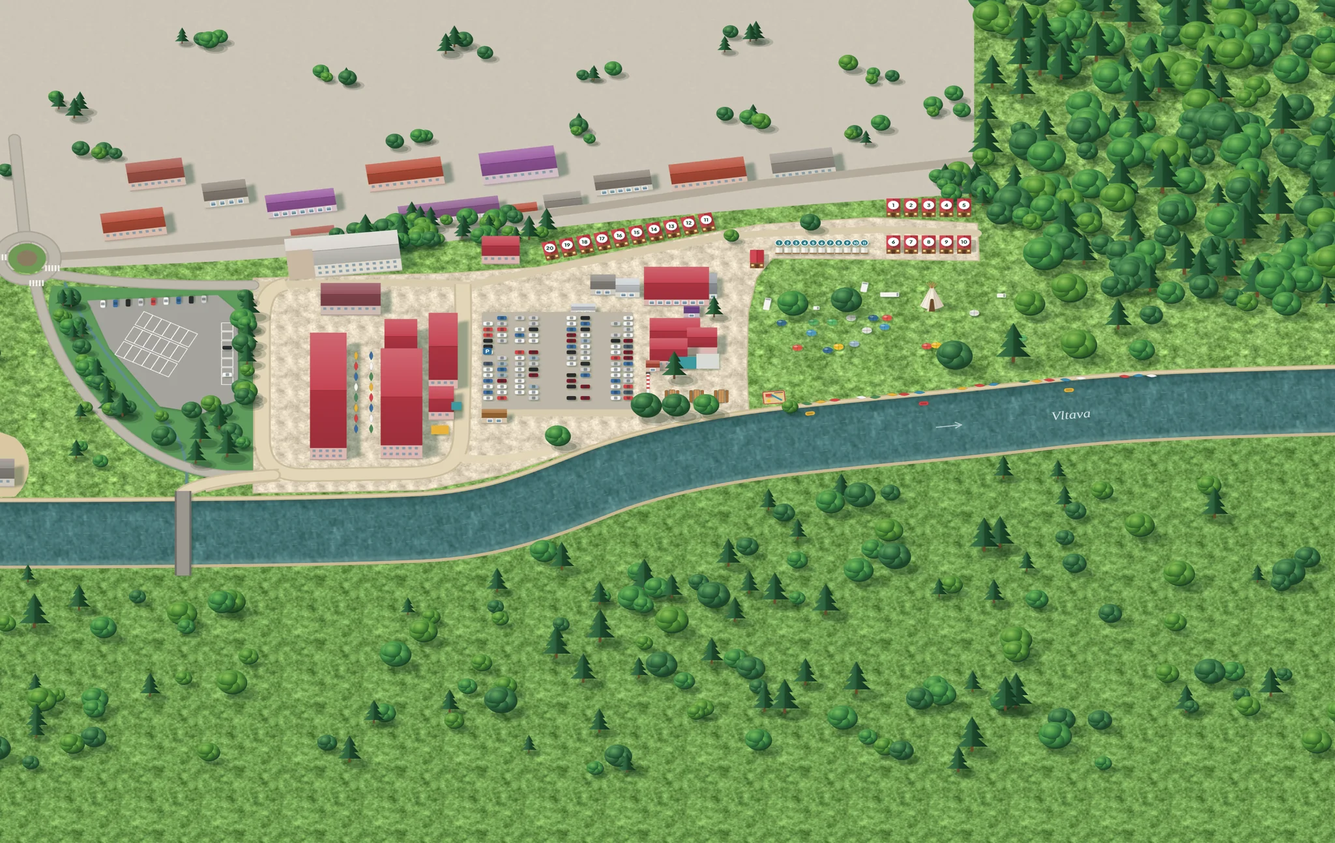
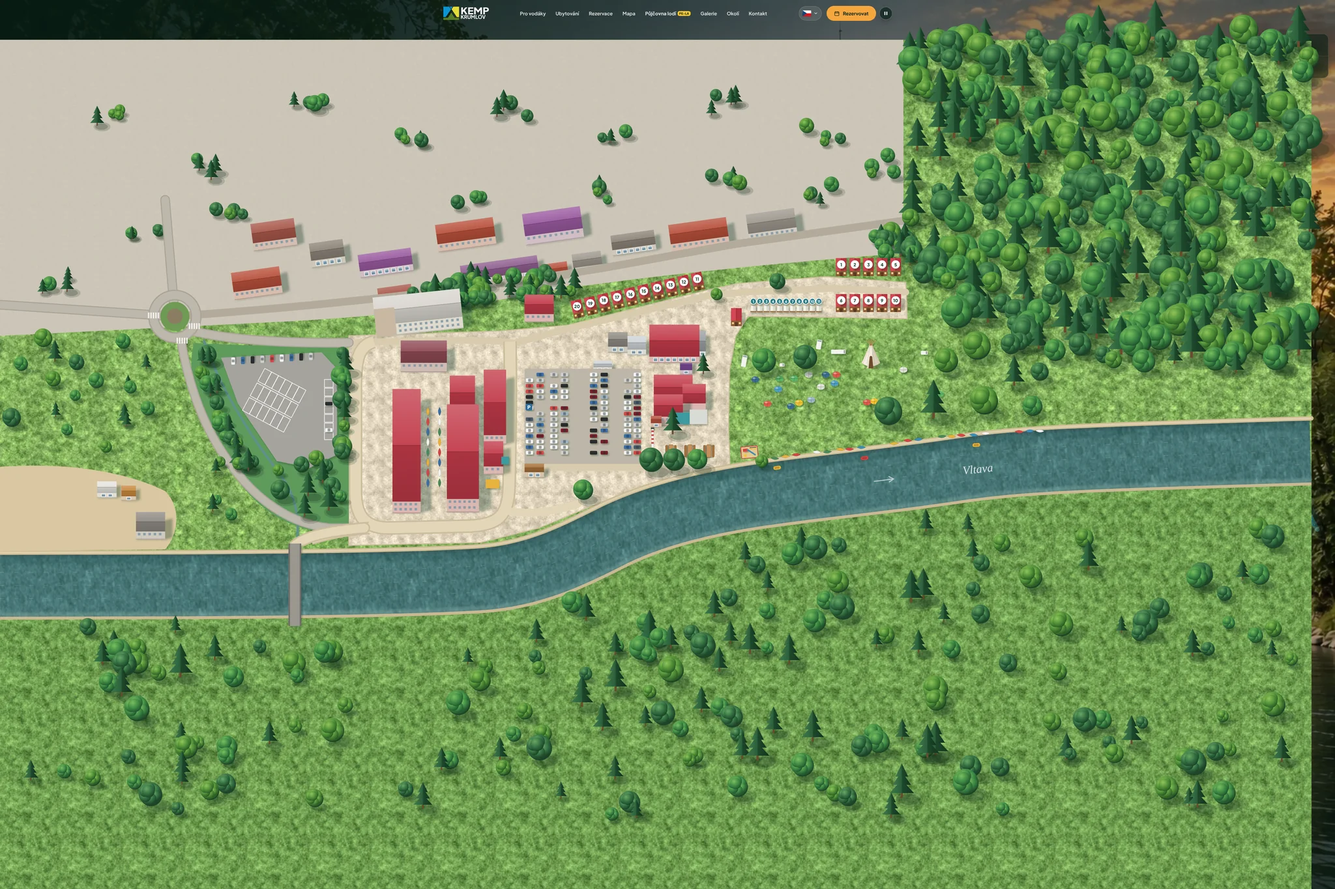
Mapa kempu: zkušební podklad přes WebGL (three.js), který kopíruje SVG mapu 1:1 – vypnuto, zapíná ?mapa3d=1
- pohled, hranice posunu, přiblížení, náklon, špendlíky a lodě řídí dál SVG (stejný viewBox i CSS transformace)
- WebGL kreslí jen statický podklad z jedné textury, SVG s těžkým obsahem se schová
- ztlumení ostatních míst při výběru jako u SVG
- textury znovu vygenerované bez náklonu (nastroje/mapa3d-export.py)

Claude-Session: https://claude.ai/code/session_01SriYs8xJVRZFuGyg5TyTst

diff --git a/js/mapy.js b/js/mapy.js
@@ -200,6 +200,9 @@ const RC=(()=>{const hx=c=>{c=String(c).trim();if(c[0]==='#'){if(c.length===4)c=
   else if(h>=40&&h<65&&s>.5){s=.42;l=Math.min(l,.55)}
   else if(h>=75&&h<170){s*=.82;l*=.9}else s*=.85;
   return C[c]=rgb(h,s,l)}})();
+/* podklad přes WebGL (js/mapa3d.js): zapne ?mapa3d=1 nebo localStorage kk.mapa.3d=1; bez WebGL zůstane čisté SVG */
+const M3=(()=>{try{const q=new URLSearchParams(location.search).get('mapa3d');if(q==='1')localStorage.setItem('kk.mapa.3d','1');if(q==='0')localStorage.removeItem('kk.mapa.3d');
+  if(localStorage.getItem('kk.mapa.3d')!=='1')return false;const c=document.createElement('canvas'),g=c.getContext('webgl2')||c.getContext('webgl');if(!g)return false;const x=g.getExtension('WEBGL_lose_context');if(x)x.loseContext();return true}catch(e){return false}})();
 const E=(t,a={},p=svg,html)=>{const e=document.createElementNS(NS,t);for(const k in a)e.setAttribute(k,REAL&&(k==='fill'||k==='stop-color')?RC(a[k]):a[k]);if(html){e.innerHTML=html;if(REAL)e.querySelectorAll('[fill],[stop-color]').forEach(x=>['fill','stop-color'].forEach(k=>{const v=x.getAttribute(k);if(v)x.setAttribute(k,RC(v))}))}p.append(e);return e};
 const G=(p,a={})=>E('g',a,p);
 let seed=5;const R=()=>{seed=(seed*16807)%2147483647;return(seed-1)/2147483646};
@@ -576,7 +579,7 @@ function upright(){
     const det=ax*by-bx*ay;if(!(Math.abs(det)>1e-6))return;
     const k=Math.hypot(ax,ay);
     o.up.setAttribute('transform',`matrix(${(k*by/det).toFixed(4)} ${(-k*ay/det).toFixed(4)} ${(-k*bx/det).toFixed(4)} ${(k*ax/det).toFixed(4)} 0 0)`)})}
-function apply(b){vb=b;svg.setAttribute('viewBox',`${b.x} ${b.y} ${b.w} ${b.h}`);
+function apply(b){vb=b;svg.setAttribute('viewBox',`${b.x} ${b.y} ${b.w} ${b.h}`);if(window.__am3d)window.__am3d.view(b);
   const {W}=size(),s=W/b.w,base=W/cover().w,k=Math.max(1.15,Math.min(2.8,Math.pow(base/s,.75)*2.5));
   D.forEach(o=>o.mk.setAttribute('transform',`translate(${o.mx} ${o.my}) scale(${k})`));upright();
   svg.classList.toggle('zoomed',s>base*1.6);
@@ -616,7 +619,7 @@ function render(o){if(!o){card.hidden=true;return}
    <div class="am-nav"><button type="button" data-d="-1">${ar('M15 6l-6 6 6 6')}<span>${prev.n}</span></button><button type="button" data-d="1"><span>${next.n}</span>${ar('M9 6l6 6-6 6')}</button></div></div>`;
   card.querySelector('.am-x').onclick=()=>select(null);
   card.querySelectorAll('.am-nav button').forEach(b=>b.onclick=()=>select(+b.dataset.d<0?prev:next))}
-function select(o){cur=o;sec.classList.toggle('focus',!!o);
+function select(o){cur=o;sec.classList.toggle('focus',!!o);if(window.__am3d)window.__am3d.focus(o?o.k:null);
   D.forEach(x=>{const m=x===o;x.g.classList.toggle('on',m);x.mk.classList.toggle('on',m);x.btn.classList.toggle('on',m);x.btn.setAttribute('aria-pressed',m)});
   render(o);
   if(o){mks.append(o.mk);const bb=o.f,pad=60;
@@ -716,14 +719,14 @@ legH();
    d.setAttribute('cx',X.toFixed(2));d.setAttribute('cy',Y.toFixed(2))})}
  })(performance.now())}
 /* zapečení statického pozadí mapy do jednoho vektorového obrázku – plynulejší animace */
-{const bake=async()=>{try{const bg=svg.querySelector('.am-bg');if(!bg||bg.dataset.baked)return;const bb=bg.getBBox(),df=svg.querySelector('defs').cloneNode(true);
+{const bake=async()=>{try{if(sec.classList.contains('am-3d'))return;const bg=svg.querySelector('.am-bg');if(!bg||bg.dataset.baked)return;const bb=bg.getBBox(),df=svg.querySelector('defs').cloneNode(true);
  const toData=async u=>{const b=await (await fetch(u)).blob();return await new Promise(r=>{const f=new FileReader();f.onload=()=>r(f.result);f.readAsDataURL(b)})};
  for(const im of df.querySelectorAll('image')){const h=im.getAttribute('href');if(h&&!h.startsWith('data:'))im.setAttribute('href',await toData(h))}
  const X=new XMLSerializer(),str=`<svg xmlns="${NS}" viewBox="${bb.x} ${bb.y} ${bb.width} ${bb.height}" width="${bb.width}" height="${bb.height}">${X.serializeToString(df)}${[...bg.childNodes].map(n=>X.serializeToString(n)).join('')}</svg>`;
  const url=URL.createObjectURL(new Blob([str],{type:'image/svg+xml'}));await new Promise((ok,no)=>{const I=new Image();I.onload=ok;I.onerror=no;I.src=url});
  const im=document.createElementNS(NS,'image');for(const[k,v]of Object.entries({href:url,x:bb.x,y:bb.y,width:bb.width,height:bb.height,preserveAspectRatio:'none'}))im.setAttribute(k,v);bg.replaceChildren(im);bg.dataset.baked=1;
 }catch(e){}};
- const go=()=>('requestIdleCallback'in window?requestIdleCallback(bake,{timeout:3000}):setTimeout(bake,800));
+ const go=()=>('requestIdleCallback'in window?requestIdleCallback(bake,{timeout:3000}):setTimeout(bake,800));window.__amBake=bake;
  /* zapéct až když se k mapě přiblížíte – na mobilu to jinak blokovalo načtení stránky */
  if('IntersectionObserver' in window){const z=new IntersectionObserver(e=>{if(e[0].isIntersecting){z.disconnect();go()}},{rootMargin:'800px 0px'});z.observe(svg)}else if(document.readyState==='complete')go();else addEventListener('load',go)}
 /* realistický styl: špendlíky -> bílé štítky s ikonou a názvem, čísla míst -> bílé štítky s tečkou */
@@ -747,6 +750,13 @@ if(REAL){sec.classList.add('am-real');
  try{if(sessionStorage.getItem('kk.mapa.skok')){sessionStorage.removeItem('kk.mapa.skok');setTimeout(()=>sec.scrollIntoView({block:'start'}),60)}}catch(_){}}
 apply(cover());
 window.__am={Z:Z,icon:icon,select:select};
+if(M3){sec.classList.add('am-3d');
+ /* statický obsah (terén, budovy, stromy, čísla míst) se schová – kreslí ho WebGL; zvýraznění zón (.hl) zůstává pro klikání */
+ const hv=e=>{e.classList.add('am-hv')},skryj=el=>{[...el.children].forEach(c=>{if(c.classList.contains('hl'))return;if(c.querySelector('.hl'))skryj(c);else hv(c)})};
+ const bg=svg.querySelector('.am-bg');if(bg)hv(bg);svg.querySelectorAll('.am-zone').forEach(skryj);svg.querySelectorAll('[data-y]').forEach(t=>{if(!t.closest('.am-mk,.am-fleet'))hv(t)});
+ const base=new URL('.',document.baseURI).href;
+ import(base+'js/mapa3d.js?v=6').then(m=>m.start({stage,svg,base,styl:REAL?'real':'kresl'})).then(a=>{window.__am3d=a;a.view(vb);if(cur)a.focus(cur.k)})
+  .catch(e=>{console.warn('Mapa: WebGL podklad nejde, zůstává SVG',e);window.__am3d=null;sec.classList.remove('am-3d');if(window.__amBake)window.__amBake()})}
 let rt;addEventListener('resize',()=>{clearTimeout(rt);rt=setTimeout(()=>{legH();if(cur)select(cur);else apply(cover())},120)});
 })();
 ;

diff --git a/js/mapa3d.js b/js/mapa3d.js
@@ -1,0 +1,40 @@
+/* Podklad mapy kempu kreslený přes WebGL (three.js).
+   Pohled, posun, přiblížení, náklon i hranice dál řídí SVG mapa v mapy.js (stejný viewBox a stejná CSS transformace),
+   takže mapa vypadá a chová se úplně stejně. Jen těžký statický obsah (terén, budovy, stromy) místo tisíců
+   SVG prvků se stíny vykresluje grafická karta z jedné textury. Špendlíky, zvýraznění zón a lodě zůstávají v SVG.
+   Textury img/mapa3d-*.webp a js/mapa3d-data.json vyrábí nastroje/mapa3d-export.py. */
+import * as THREE from './vendor/three.module.min.js';
+
+export async function start({stage,svg,base,styl}){
+ const D=await (await fetch(base+'js/mapa3d-data.json')).json(),T=D.tex;
+ const R=new THREE.WebGLRenderer({antialias:false,alpha:true,powerPreference:'low-power'});
+ R.setPixelRatio(Math.min(devicePixelRatio,2));R.outputColorSpace=THREE.SRGBColorSpace;R.setClearColor(0x000000,0);
+ const cv=R.domElement;cv.className='am-gl';cv.setAttribute('aria-hidden','true');svg.before(cv);
+ const S=new THREE.Scene(),C=new THREE.OrthographicCamera(0,1,0,-1,-10,10);
+ const mala=Math.min(innerWidth,innerHeight)<700||!(R.capabilities.maxTextureSize>=4096);
+ const nacti=s=>new Promise((ok,no)=>new THREE.TextureLoader().load(`${base}img/mapa3d-${s}${mala?'-2048':''}.webp`,t=>{
+  t.colorSpace=THREE.SRGBColorSpace;t.anisotropy=Math.min(8,R.capabilities.getMaxAnisotropy());t.generateMipmaps=true;t.minFilter=THREE.LinearMipmapLinearFilter;ok(t)},undefined,no));
+ /* rovina v souřadnicích mapy (osa y obrácená, jako v SVG) */
+ /* vybrané místo zůstane barevné, zbytek se ztlumí – jako .focus u SVG zón */
+ const U={map:{value:await nacti(styl)},dim:{value:0},rc:{value:new THREE.Vector4(0,0,0,0)}};
+ const mat=new THREE.ShaderMaterial({uniforms:U,
+  vertexShader:'varying vec2 vUv;varying vec2 vW;void main(){vUv=uv;vec4 w=modelMatrix*vec4(position,1.);vW=vec2(w.x,-w.y);gl_Position=projectionMatrix*viewMatrix*w;}',
+  fragmentShader:'uniform sampler2D map;uniform float dim;uniform vec4 rc;varying vec2 vUv;varying vec2 vW;void main(){vec4 c=texture2D(map,vUv);'+
+   'float l=dot(c.rgb,vec3(.299,.587,.114));vec3 d=mix(vec3(l),c.rgb,.45);d=mix(d,vec3(.85,.83,.78),.18);'+
+   'float m=step(rc.x,vW.x)*step(vW.x,rc.z)*step(rc.y,vW.y)*step(vW.y,rc.w);gl_FragColor=vec4(mix(c.rgb,d,dim*(1.-m)),1.);'+
+   '\n#include <colorspace_fragment>\n}'});
+ const zem=new THREE.Mesh(new THREE.PlaneGeometry(T.w,T.h),mat);
+ zem.position.set(T.x+T.w/2,-(T.y+T.h/2),0);S.add(zem);
+ let vb=null,ceka=false;
+ const kresli=()=>{ceka=false;if(!vb)return;const r=stage.getBoundingClientRect();if(!r.width||!r.height)return;
+  if(cv.width!==Math.round(r.width*R.getPixelRatio())||cv.height!==Math.round(r.height*R.getPixelRatio()))R.setSize(r.width,r.height,false);
+  C.left=vb.x;C.right=vb.x+vb.w;C.top=-vb.y;C.bottom=-(vb.y+vb.h);C.updateProjectionMatrix();R.render(S,C)};
+ const naplanuj=()=>{if(!ceka){ceka=true;requestAnimationFrame(kresli)}};
+ new ResizeObserver(naplanuj).observe(stage);
+ return {
+  view(b){vb={x:b.x,y:b.y,w:b.w,h:b.h};naplanuj()},
+  async styl(s){const t=await nacti(s),o=U.map.value;U.map.value=t;if(o)o.dispose();naplanuj()},
+  focus(k){const it=k&&D.items.find(i=>i.k===k);if(it&&it.r){const P=40;U.rc.value.set(it.r[0]-P,it.r[1]-P,it.r[0]+it.r[2]+P,it.r[1]+it.r[3]+P)}
+   const od=U.dim.value,cil=it?1:0,t0=performance.now();const krok=t=>{const k2=Math.min(1,(t-t0)/450);U.dim.value=od+(cil-od)*k2;kresli();if(k2<1)requestAnimationFrame(krok)};requestAnimationFrame(krok)},
+  destroy(){R.dispose();cv.remove()}
+ }}

diff --git a/css/web.css b/css/web.css
@@ -2118,9 +2118,9 @@ h2:not(.hero *),.kk2-scope h2:not(.hero *){line-height:1.12!important}
 #areal .am-stage::before{content:"";position:absolute;inset:0;z-index:1;pointer-events:none;background:radial-gradient(120% 90% at 30% 10%,rgba(255,236,190,.18),rgba(255,236,190,0) 55%),radial-gradient(140% 120% at 50% 60%,transparent 60%,rgba(10,30,20,.28) 100%)}
 /* naklonění mapy – pohled šikmo, ne kolmo shora */
 #areal .am-stage{perspective:1500px;perspective-origin:50% 20%;overflow:hidden}
-#amSvg{transform:rotateX(38deg) scale(1.3);transform-origin:50% 58%;transition:transform .6s ease}
+#amSvg,.am-gl{transform:rotateX(38deg) scale(1.3);transform-origin:50% 58%;transition:transform .6s ease}
 #areal .am-stage::after{content:"";position:absolute;left:0;right:0;top:0;height:18%;pointer-events:none;background:linear-gradient(180deg,rgba(214,232,222,.55),rgba(214,232,222,0))}
-@media(max-width:900px){#amSvg{transform:rotateX(24deg) scale(1.22)}}
+@media(max-width:900px){#amSvg,.am-gl{transform:rotateX(24deg) scale(1.22)}}
 @media not all{#amSvg{transition:none}}
 
 /* ===== vodaci-v2 ===== */
@@ -2763,7 +2763,7 @@ h2:not(.hero *),.kk2-scope h2:not(.hero *){line-height:1.12!important}
  #areal .am-intro,#areal .ai-card{transition-duration:.01s!important}
 }
 /* mapa vždy zakryje celou plochu sekce (nahoře zůstával světlý pruh) */
-@media(min-width:901px){#amSvg{transform:translateY(-6vh) rotateX(38deg) scale(1.3)!important}}
+@media(min-width:901px){#amSvg,.am-gl{transform:translateY(-6vh) rotateX(38deg) scale(1.3)!important}}
 @media(max-width:600px){#areal .ai-dots{display:none}}
 
 /* ===== progress bar: spustí se sám při příchodu na mapu ===== */
@@ -3679,3 +3679,7 @@ footer.ft .ft-col a,footer.ft .ft-col>span{display:block;width:max-content;max-w
 /* mapa kempu se vykresluje jen když je poblíž obrazovky – mimo ni prohlížeč uvolní paměť pro její vykreslení */
 #areal{content-visibility:auto;contain-intrinsic-size:auto 900px}
 
+
+/* podklad mapy přes WebGL – stejná transformace jako SVG, které leží nad ním */
+.am-gl{position:absolute;inset:0;width:100%;height:100%;display:block;pointer-events:none}
+#areal.am-3d .am-hv{display:none}

diff --git a/prototyp/mapa-three.html b/prototyp/mapa-three.html
@@ -55,7 +55,7 @@ const IC={
  hriste:'<path d="M3 21 7 4h10l4 17M7 4h10M10 4v9M14 4v9M9 13h6"/>',
  pujcovna:'<path d="M3.5 20.5 13.5 10.5M20.5 20.5 10.5 10.5M2.5 18.5l3 3M21.5 18.5l-3 3"/><ellipse cx="16.6" cy="7.4" rx="2.3" ry="4.4" transform="rotate(45 16.6 7.4)"/><ellipse cx="7.4" cy="7.4" rx="2.3" ry="4.4" transform="rotate(-45 7.4 7.4)"/>'
 };
-const D=await (await fetch('mapa3d-data.json')).json();
+const D=await (await fetch('../js/mapa3d-data.json')).json();
 const T=D.tex,CX=T.x+T.w/2,CZ=T.y+T.h/2;
 const wx=x=>x-CX,wz=y=>y-CZ;            /* souřadnice mapy -> scéna (rovina XZ, střed v počátku) */
 const box=document.getElementById('mapa');

diff --git a/index.html b/index.html
@@ -257,7 +257,7 @@
   0% { background-position: 120% 0px; }
   100% { background-position: -120% 0px; }
 }</style>
-<link rel="stylesheet" href="css/web.css?v=ac4685c0gk">
+<link rel="stylesheet" href="css/web.css?v=ac4685c0gkn">
 </head>
 <body>
 
@@ -960,6 +960,6 @@
 <script src="js/web.js?v=p2web"></script>
 <script src="js/cenik.js?v=p1c5e713def"></script>
 <script src="js/pobyt.js?v=0d1e7b6bdghj"></script>
-<script src="js/mapy.js?v=6568789fk"></script>
+<script src="js/mapy.js?v=6568789fknopq"></script>
 <script src="js/animace.js?v=5697ac57"></script>
 </body></html>

diff --git a/nastroje/mapa3d-export.py b/nastroje/mapa3d-export.py
@@ -1,0 +1,48 @@
+"""Vygeneruje podklady pro mapu kempu ve WebGL (js/mapa3d.js) ze SVG mapy (js/mapy.js):
+   img/mapa3d-kresl(.webp|-2048.webp), img/mapa3d-real(...), js/mapa3d-data.json.
+   Spustit po každé změně SVG mapy (nová chatka, přesun budovy…):  python3 nastroje/mapa3d-export.py
+   Potřebuje: pip install playwright pillow numpy ; Google Chrome v /usr/bin/google-chrome."""
+import json,os,sys
+from playwright.sync_api import sync_playwright
+from PIL import Image
+import numpy as np
+ROOT=os.path.dirname(os.path.dirname(os.path.abspath(__file__)))
+U='file://'+ROOT+'/index.html'
+W,H=4096,2730
+def stranka(p,styl,vp):
+  b=p.chromium.launch(executable_path='/usr/bin/google-chrome',args=['--allow-file-access-from-files'])
+  o=b.new_page(viewport=vp)
+  o.add_init_script("localStorage.setItem('kk.mapa.styl','%s');localStorage.setItem('kk.mapa.3d','0')"%styl)
+  o.goto(U);o.wait_for_timeout(1500);o.locator('#areal').scroll_into_view_if_needed();o.wait_for_timeout(12000)
+  return b,o
+with sync_playwright() as p:
+  b,o=stranka(p,'kresl',{'width':1440,'height':900})
+  d=o.evaluate("""(()=>{const Z=window.__am.Z,svg=document.getElementById('amSvg');
+   const items=Object.values(Z).map(o=>{let r=null;if(o.g){const b=o.g.getBBox();r=[b.x*2,b.y*2,b.width*2,b.height*2]}return{k:o.k,n:o.n,c:o.c,m:[o.mx,o.my],r,d:o.d,li:o.li}});
+   const paths=[...svg.querySelectorAll('.am-fleet path')].filter(p=>p.getAttribute('d')).map(p=>{const L=p.getTotalLength(),pts=[];for(let i=0;i<=60;i++){const q=p.getPointAtLength(L*i/60);pts.push([+(q.x*2).toFixed(1),+(q.y*2).toFixed(1)])}return pts});
+   return {items,paths}})()""")
+  b.close()
+  d['paths']=[q for q in d['paths'] if abs(q[-1][0]-q[0][0])>300]
+  vyska=None
+  for st in ['kresl','real']:
+    b,o=stranka(p,st,{'width':W,'height':H})
+    o.evaluate("""(()=>{const svg=document.getElementById('amSvg');const S2=svg.querySelector(':scope>g>g');
+     svg.querySelectorAll('.am-mk,.am-fleet').forEach(e=>e.style.display='none');
+     [...S2.children].forEach(e=>{if(e.getAttribute('pointer-events')==='none')e.style.display='none'});
+     document.querySelectorAll('.am-styl,.am-panel,.am-ctrl,.am-hint,#amIntro,.am-open,.am-card,.am-tip').forEach(e=>e.style.display='none');
+     svg.setAttribute('viewBox','-1800 -1064 5497 3664');svg.setAttribute('preserveAspectRatio','none');
+     Object.assign(svg.style,{position:'fixed',left:'0',top:'0',width:'%dpx',height:'%dpx',zIndex:99999});svg.style.setProperty('transform','none','important');svg.style.setProperty('transition','none','important');document.body.append(svg)})()"""%(W,H))
+    o.evaluate("scrollTo(0,0)");o.wait_for_timeout(1500)
+    vb0=o.evaluate("[document.getElementById('amSvg').getAttribute('viewBox'),document.getElementById('amSvg').getAttribute('preserveAspectRatio'),JSON.stringify(document.getElementById('amSvg').getBoundingClientRect())]")
+    tmp='/tmp/mapa3d-%s.png'%st;o.screenshot(path=tmp,clip={'x':0,'y':0,'width':W,'height':H})
+    vb1=o.evaluate("document.getElementById('amSvg').getAttribute('viewBox')");print(st,vb0,vb1);b.close()
+    im=Image.open(tmp).convert('RGB')
+    if vyska is None:
+      a=np.asarray(im).astype(int);s=a[:,::64,:].sum(axis=2).mean(axis=1);tm=np.where(s<160)[0];tm=tm[tm>H*0.8]
+      vyska=int(tm[0]) if len(tm) else H
+    im=im.crop((0,0,W,vyska))
+    im.save(ROOT+'/img/mapa3d-%s.webp'%st,quality=84,method=6)
+    im.resize((2048,round(vyska/2)),Image.LANCZOS).save(ROOT+'/img/mapa3d-%s-2048.webp'%st,quality=84,method=6)
+  d['tex']={'x':-1800,'y':-1064,'w':5497,'h':round(3664*vyska/H,1)}
+  json.dump(d,open(ROOT+'/js/mapa3d-data.json','w'),ensure_ascii=False)
+  print('hotovo',d['tex'],len(d['items']),'míst',len(d['paths']),'tras lodí')
